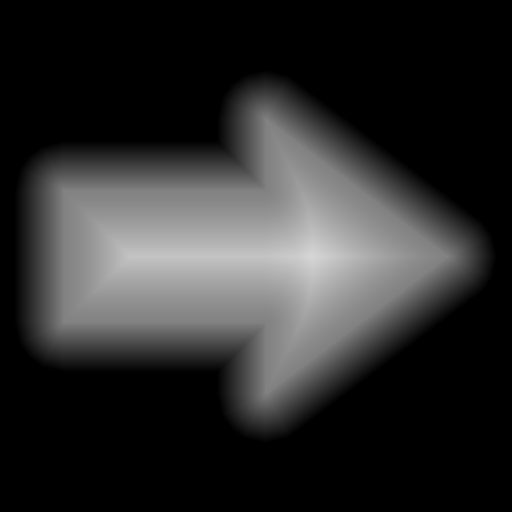
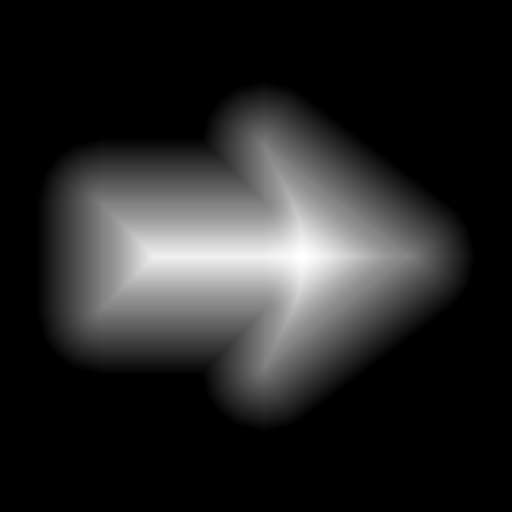
Masticore

diff --git a/GooeyViews/ViewController.swift b/GooeyViews/ViewController.swift
@@ -143,7 +143,7 @@ class ViewController: UIViewController {
         }
     }
     
-    func renderView(transform transform: CATransform3D, isoOffset: Float, texture: MTLTexture, first: Bool) {
+    func renderView(transform transform: CATransform3D, isoFactor: Float, texture: MTLTexture, first: Bool) {
         
         let command = commandQueue.commandBuffer()
         
@@ -165,13 +165,13 @@ class ViewController: UIViewController {
             let uniformFactory = UniformFactory(device: device)
             
             let transformUniformBuffer = uniformFactory.matrixUniformBuffer(matrices: [transform])
-            let isoOffsetUniformBuffer = uniformFactory.floatUniformBuffer(value: isoOffset)
+            let isoFactorUniformBuffer = uniformFactory.floatUniformBuffer(value: isoFactor)
             
             let encoder = command.renderCommandEncoderWithDescriptor(renderPassDescriptor)
             encoder.setRenderPipelineState(self.blendPipelineState)
             encoder.setVertexBuffer(self.attributeBuffer, offset: 0, atIndex: 0) // use set buffers
             encoder.setVertexBuffer(transformUniformBuffer, offset: 0, atIndex: 1) // use set buffers
-            encoder.setFragmentBuffer(isoOffsetUniformBuffer, offset: 0, atIndex: 0)
+            encoder.setFragmentBuffer(isoFactorUniformBuffer, offset: 0, atIndex: 0)
             encoder.setFragmentTexture(texture, atIndex: 0)
             encoder.setFrontFacingWinding(.Clockwise)
             encoder.setCullMode(.Back)
@@ -187,22 +187,28 @@ class ViewController: UIViewController {
     }
     
     func step() {
+    
+        let time = NSDate().timeIntervalSince1970
+        let speed = time / 1.0
+        let second = fmod(speed, 1.0)
+        let piFactor = M_PI * 2 * second
+        let wave = CGFloat(sin(piFactor))
         
         // Blend -----
         do {
             let scale = CATransform3DMakeScale(0.5, 0.25, 1)
-            let translate = CATransform3DMakeTranslation(-0.375, 0, 0)
+            let translate = CATransform3DMakeTranslation(-0.35 + 0.15 * wave, 0, 0)
             let transform = CATransform3DConcat(scale, translate)
             
-            renderView(transform: transform, isoOffset: 0, texture: heartTexture, first: true)
+            renderView(transform: transform, isoFactor: 1, texture: heartTexture, first: true)
         }
         
         do {
             let scale = CATransform3DMakeScale(0.5, 0.25, 1)
-            let translate = CATransform3DMakeTranslation(0.375, 0, 0)
+            let translate = CATransform3DMakeTranslation(0.3, 0, 0)
             let transform = CATransform3DConcat(scale, translate)
             
-            renderView(transform: transform, isoOffset: 0, texture: splatTexture, first: false)
+            renderView(transform: transform, isoFactor: (Float(wave) + 1.0) / 2.0, texture: splatTexture, first: false)
         }
         // -----
         

diff --git a/GooeyViews/UniformFactory.swift b/GooeyViews/UniformFactory.swift
@@ -32,11 +32,10 @@ class UniformFactory {
         return buffer
     }
     
-    func matrixIsoOffsetBuffer(matrix matrix: CATransform3D, isoOffset: Float) -> MTLBuffer {
+    func matrixIsoFactorBuffer(matrix matrix: CATransform3D, isoFactor: Float) -> MTLBuffer {
         let matrixArray = MatrixFactory.array(matrix)
-        let appended = matrixArray + [isoOffset]
+        let appended = matrixArray + [isoFactor]
         let size = appended.count * FLOAT_SIZE
-        NSLog("\(size)")
         let buffer = device.newBufferWithBytes(appended, length: size, options: [])
 
         return buffer
